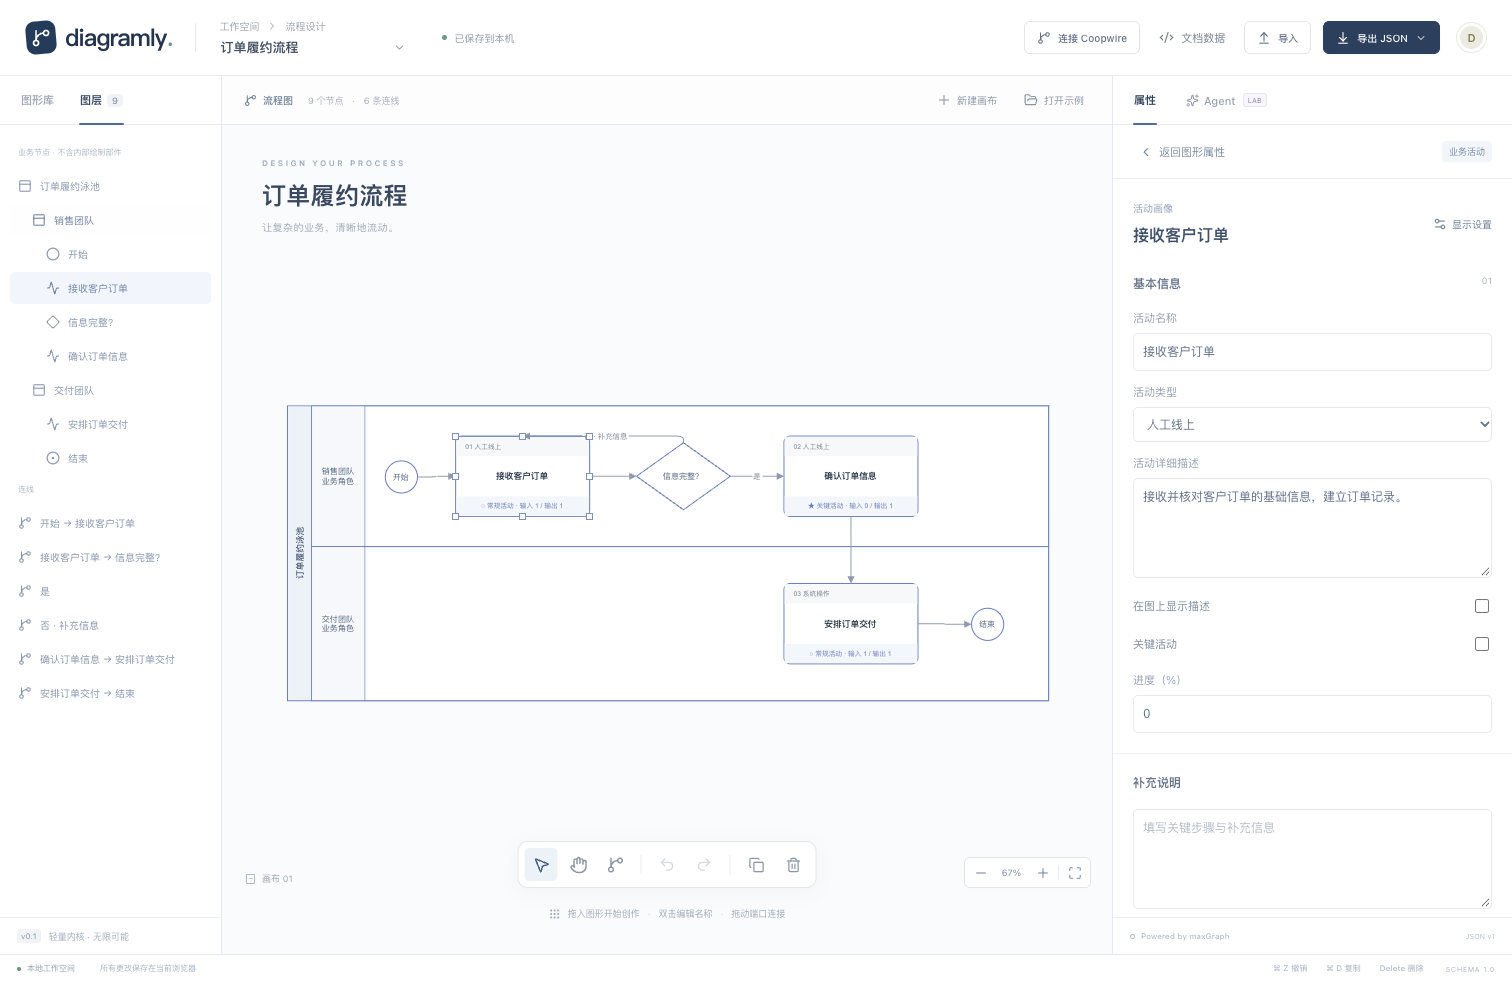
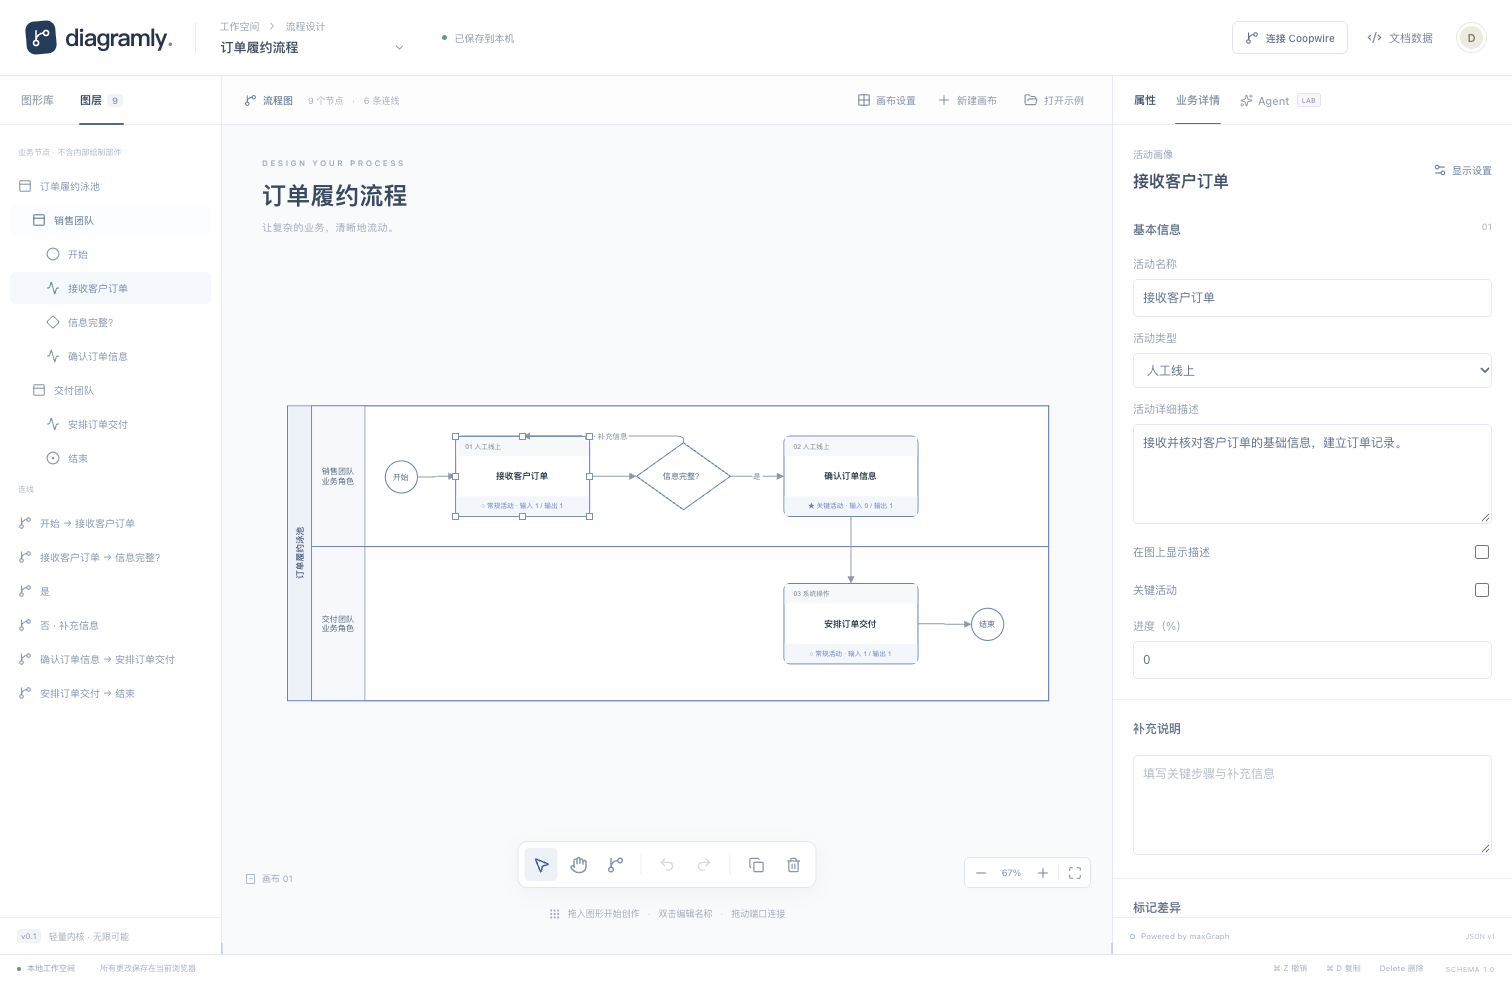
docs(workspace): 补充文档交换与画布布局说明及预览

diff --git a/docs/workspace.md b/docs/workspace.md
@@ -1,0 +1,35 @@
+# 文档、画布与侧栏
+
+## 文档数据
+
+顶部只保留「文档数据」入口。弹窗中有一个导入按钮，以及导出格式选择和导出按钮：
+
+- 导入 JSON、XML 或 `.drawio`；按内容识别格式。JSON 上限 5MB，XML 与解压后的内容上限 8MB。
+- 导出 JSON、XML 或 PNG 图片。JSON/XML 保留完整业务文档、泳池层级、角色、图形外观和画布设置。
+- XML 支持 Diagramly 文档、已有 Coopwire 兼容模型、基础矩形／椭圆／菱形，以及单画布 draw.io 文件，包括压缩画布。多画布文件须分别导出，未知模板会明确拒绝，避免静默丢失图形。
+- 图片只包含图形、连线、网格和画布背景，不包含选框、工具栏和侧栏。默认透明；最长边限制为 4096 像素，总像素不超过 1200 万。
+- 错误文件不会替换当前画布。远程连接期间可导出，须先断开再导入，避免把导入文件意外写入现有远程业务。
+- `⌘/Ctrl+S` 打开文档数据弹窗。
+
+## 画布设置
+
+画布右上角「画布设置」可打开网格、设置 5–100px 间距、修改网格线颜色和 0–100% 透明度、选择背景颜色或恢复透明。默认关闭网格，背景透明。网格线透明度 0% 为不透明、100% 为完全透明，网格线透明不影响吸附。网格与图形一起缩放、平移，开启时也按同一间距吸附。
+
+设置通过 `document.canvas.update` 命令保存到文档，可撤销、重做。`gridColor` 为十六进制颜色，`gridOpacity` 为 0–1 的不透明度，界面透明度按相反方向显示。旧文档未包含设置时使用默认值。JSON、XML、PNG 及 Coopwire 流程预览图共用当前设置，PNG 实际像素已验证透明与背景颜色。
+
+## 业务详情标签
+
+右侧有「属性」「业务详情」「Agent」标签。「业务详情」只在当前图形支持业务详情时出现；远程活动还必须已加载对应的详情。切换到没有详情的图形时自动返回属性。参见 [业务图形详情](activity-details.md)。
+
+## 侧栏尺寸
+
+左右侧栏的内侧边缘可以调整宽度，底边可以调整高度，内侧底角可以同时调整宽高。
+
+| 侧栏              | 最小宽度 | 最大宽度 | 高度范围           |
+| ----------------- | -------- | -------- | ------------------ |
+| 图形库            | 180px    | 420px    | 280px 至工作区高度 |
+| 属性／详情／Agent | 260px    | 600px    | 280px 至工作区高度 |
+
+窄窗口中最大宽度会进一步收紧，为画布保留操作空间。侧栏内容在内部滚动，尺寸在本机保存，不进入业务文档，也不产生远程业务写入。拖拽完成后画布重新适应可用空间。
+
+手柄支持键盘：方向键每次 10px，按住 Shift 每次 30px；Home 调整到最小值，End 调整到最大值。

diff --git a/README.md b/README.md
@@ -61,7 +61,7 @@ npm run test:e2e
 
 浏览器测试默认使用 Playwright 管理的 Chromium。可设置 `PLAYWRIGHT_CHROMIUM_PATH` 使用已有 Chrome；首次使用默认浏览器需先运行 `npx playwright install chromium`。
 
-已验证：80 项核心/接口测试、31 项真实浏览器测试及生产构建通过。
+已验证：91 项核心/接口测试、43 项真实浏览器测试及生产构建通过。
 
 核心测试覆盖事务回滚、复制身份隔离、幂等、版本冲突、预览、撤销重做、循环图、容器约束及非法文档。浏览器测试覆盖真实画布操作、属性联动、拖动、连线、本机恢复、导出导入和 Agent 操作。
 
@@ -75,8 +75,10 @@ npm run test:e2e
 
 maxGraph 的升级仅涉及依赖和适配器；升级仍需运行契约与浏览器回归，不承诺上游 API 不变。项目不修改上游源码，不引入 draw.io 编辑器、云盘、模板库或桌面端代码。
 
-构建当前会提示 maxGraph 内部保留的 eval 函数和单个 JS 包超过 500kB；未屏蔽这些提示。适配器显式关闭 allowEval，生产 JS 约 743kB / gzip 205kB，后续可按加载场景拆包。
+构建当前会提示 maxGraph 内部保留的 eval 函数和单个 JS 包超过 500kB；未屏蔽这些提示。适配器显式关闭 allowEval，生产 JS 约 761kB / gzip 211kB，后续可按加载场景拆包。
 
 业务活动、判断与子流程的完整详情入口位于右侧独立的「业务详情」标签页，支持补充说明、差异、应用设备、时间及周期等字段，参见 [业务图形详情](docs/activity-details.md)。
 
 代码统一使用 Prettier 格式化：`npm run format`；提交前检查 `npm run format:check`。每项功能验证完成后分别提交，提交信息遵循 Conventional Commits，使用 `type(scope): 中文说明`，例如 `feat(core): 新增泳池布局命令`。类型与作用域使用英文，代码注释使用中文。
+
+文档导入导出、独立详情标签、侧栏尺寸和透明背景／网格设置见 [工作区使用说明](docs/workspace.md)。
